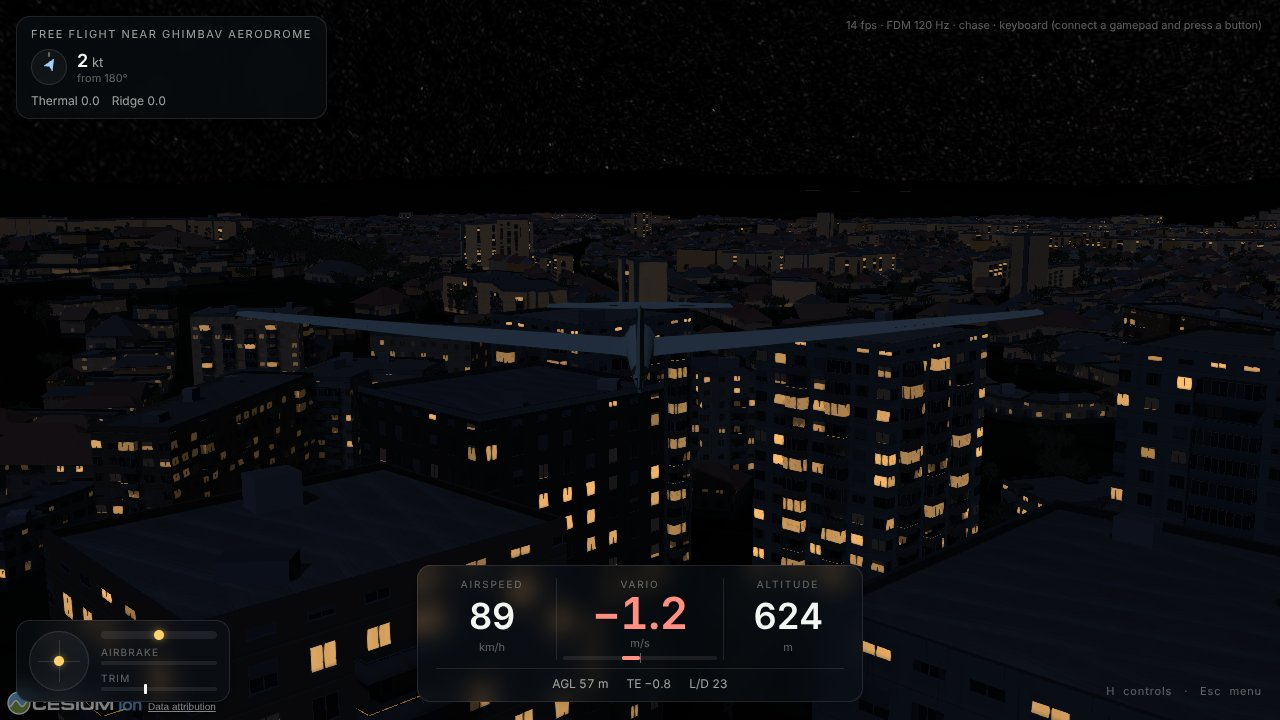
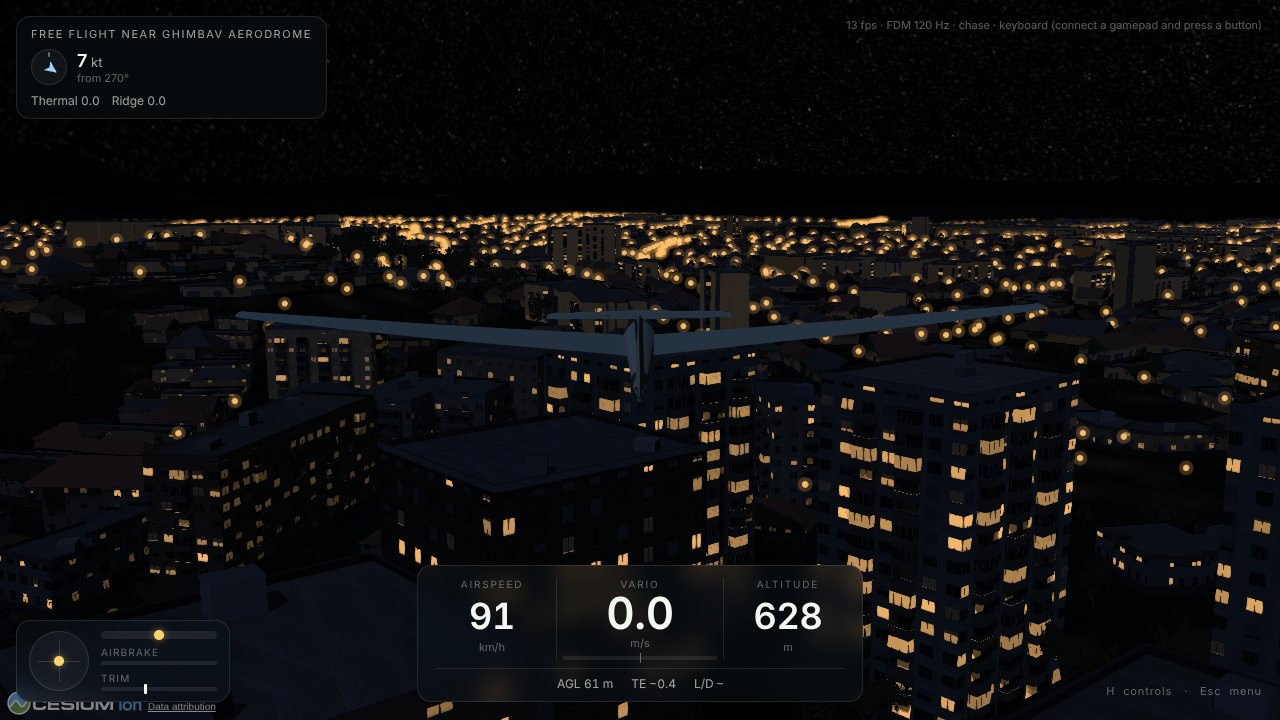
Street lights at night: lamp points along town streets and light pools on the ground
Lamps are placed every 38 m along primary-to-minor roads inside built-up land use (one
function, packages/scenery lamps.ts, for both). Detail ground tiles now carry the time of
day themselves (darkening, pools) instead of the layer's brightness.

Claude-Session: https://claude.ai/code/session_01Gkrw4JEEshtmUBEjEhXiiF

diff --git a/packages/scenery/src/lamps.ts b/packages/scenery/src/lamps.ts
@@ -1,0 +1,61 @@
+/**
+ * Street lamps from an OpenMapTiles vector tile: along streets (primary to minor roads, not
+ * in tunnels) every LAMP_SPACING_M where they run through built-up land (landuse
+ * residential, commercial, retail, industrial). One function for everything that shows
+ * them (the light pools painted on the ground, the lamp lights in the scene), so they agree.
+ * OpenStreetMap has few lamps mapped; these are placed, not surveyed.
+ */
+import type { MvtLayer } from "./mvt.ts";
+
+export const LAMP_SPACING_M = 38;
+const LAMP_ROADS = new Set(["primary", "secondary", "tertiary", "minor"]);
+const BUILT = new Set(["residential", "commercial", "retail", "industrial"]);
+
+const inRing = (ring: [number, number][], x: number, y: number) => {
+  let c = false;
+  for (let i = 0, j = ring.length - 1; i < ring.length; j = i++) {
+    const [xi, yi] = ring[i]!, [xj, yj] = ring[j]!;
+    if (yi > y !== yj > y && x < ((xj - xi) * (y - yi)) / (yj - yi) + xi) c = !c;
+  }
+  return c;
+};
+
+/** Lamp positions in the tile's own coordinates (0…extent, y down), for a tile at zoom z, row y. */
+export function streetLamps(layers: MvtLayer[], z: number, y: number): { extent: number; pts: [number, number][] } {
+  const roads = layers.find((l) => l.name === "transportation"), landuse = layers.find((l) => l.name === "landuse");
+  const extent = roads?.extent ?? 4096;
+  const pts: [number, number][] = [];
+  if (!roads || !landuse) return { extent, pts };
+  // Built-up polygons with their bounding boxes (even-odd over a feature's rings).
+  const built = landuse.features
+    .filter((f) => f.type === 3 && BUILT.has(String(f.properties["class"] ?? "")))
+    .map((f) => {
+      let x0 = Infinity, y0 = Infinity, x1 = -Infinity, y1 = -Infinity;
+      for (const r of f.geometry) for (const [a, b] of r) { x0 = Math.min(x0, a); y0 = Math.min(y0, b); x1 = Math.max(x1, a); y1 = Math.max(y1, b); }
+      return { rings: f.geometry, x0, y0, x1, y1 };
+    });
+  if (!built.length) return { extent, pts };
+  const k = landuse.extent / extent;
+  const isBuilt = (u: number, v: number) => built.some((p) => u * k >= p.x0 && u * k <= p.x1 && v * k >= p.y0 && v * k <= p.y1 && p.rings.reduce((c, r) => (inRing(r, u * k, v * k) ? !c : c), false));
+  // True metres per tile unit at the tile's latitude.
+  const lat = Math.atan(Math.sinh(Math.PI * (1 - (2 * (y + 0.5)) / 2 ** z)));
+  const unitM = (40075016.686 * Math.cos(lat)) / 2 ** z / extent;
+  for (const f of roads.features) {
+    if (f.type !== 2 || !LAMP_ROADS.has(String(f.properties["class"] ?? "")) || f.properties["brunnel"] === "tunnel") continue;
+    for (const line of f.geometry) {
+      let next = LAMP_SPACING_M / 3; // distance along the line to the next lamp [m]
+      for (let i = 0; i + 1 < line.length; i++) {
+        const [ax, ay] = line[i]!, [bx, by] = line[i + 1]!;
+        const len = Math.hypot(bx - ax, by - ay) * unitM;
+        while (next <= len) {
+          const t = next / len, u = ax + (bx - ax) * t, v = ay + (by - ay) * t;
+          // Only lamps inside the tile proper: the neighbour places those in its own area.
+          if (u >= 0 && v >= 0 && u < extent && v < extent && isBuilt(u, v)) pts.push([u, v]);
+          next += LAMP_SPACING_M;
+        }
+        next -= len;
+      }
+    }
+  }
+  return { extent, pts };
+}

diff --git a/apps/web/src/detail/detail-worker.ts b/apps/web/src/detail/detail-worker.ts
@@ -6,7 +6,7 @@
  * shadows. Visual only.
  */
 import { airfieldsAround, bearingDeg, designatorDeg } from "@webflight/environment";
-import { decodeMvt, type MvtLayer } from "@webflight/scenery";
+import { decodeMvt, streetLamps, type MvtLayer } from "@webflight/scenery";
 import { edgeAwareUpsample, synthesize, hash2, COVERS, type Cover, type GroundTextures } from "./synth.ts";
 import { addRelief, buildDetailTexture, TEXTURES, type DetailTexture, type TextureRole } from "./textures.ts";
 
@@ -14,6 +14,11 @@ declare const self: DedicatedWorkerGlobalScope;
 
 export interface DetailRequest {
   id: number;
+  /**
+   * Time of day (lighting.ts LOOK): the tile darkens itself by `ground` and, by `night`,
+   * paints the street lamps' light pools (the layer is then drawn at full brightness).
+   */
+  look?: { ground: number; night: number };
   /** 3D building shadows are drawn: don't also paint them into tiles within their reach (zoom ≥ 15). */
   realShadows?: boolean;
   x: number;
@@ -342,6 +347,7 @@ async function composeLow(q: DetailRequest): Promise<ImageBitmap> {
       if (l.name === "waterway") drawWaterways(ctx, l, f, w);
       else if (l.name === "transportation") drawRoads(ctx, l, f, w, mPerPx);
     }
+  nightLook(ctx, q, undefined, undefined);
   return flipped(cv);
 }
 
@@ -574,5 +580,38 @@ async function compose(q: DetailRequest): Promise<ImageBitmap> {
       }
     }
   }
+  nightLook(ctx, q, layers, toPx);
   return flipped(cv);
+}
+
+/** Darken the finished tile for the time of day; at night add the street lamps' pools of light. */
+function nightLook(ctx: Ctx, q: DetailRequest, layers: MvtLayer[] | undefined, toPx: ((e: number) => ToPx) | undefined): void {
+  const look = q.look;
+  if (!look || look.ground >= 0.995) return;
+  ctx.globalAlpha = 1;
+  ctx.setLineDash([]);
+  ctx.globalCompositeOperation = "multiply";
+  // Towards night the remaining light is bluish.
+  const g = look.ground, n = look.night;
+  ctx.fillStyle = `rgb(${Math.round(255 * g * (1 - 0.18 * n))}, ${Math.round(255 * g * (1 - 0.06 * n))}, ${Math.round(255 * Math.min(1, g * (1 + 0.25 * n)))})`;
+  ctx.fillRect(0, 0, SIZE, SIZE);
+  if (n > 0.3 && layers && toPx && q.z >= 14) {
+    const lamps = streetLamps(layers, 14, q.y >> (q.z - 14));
+    const f = toPx(lamps.extent);
+    const latC = (Math.atan(Math.sinh(Math.PI * (1 - (2 * (q.y + 0.5)) / 2 ** q.z))) * 180) / Math.PI;
+    const r = 15 / ((C * Math.cos((latC * Math.PI) / 180)) / 2 ** q.z / SIZE); // 15 m pools
+    ctx.globalCompositeOperation = "lighter";
+    const a = 0.34 * Math.min(1, (n - 0.3) / 0.4);
+    for (const [u, v] of lamps.pts) {
+      const [px, py] = f(u, v);
+      if (px < -r || py < -r || px > SIZE + r || py > SIZE + r) continue;
+      const grad = ctx.createRadialGradient(px, py, 0, px, py, r);
+      grad.addColorStop(0, `rgba(255, 190, 110, ${a})`);
+      grad.addColorStop(0.35, `rgba(255, 170, 90, ${a * 0.45})`);
+      grad.addColorStop(1, "rgba(255, 160, 80, 0)");
+      ctx.fillStyle = grad;
+      ctx.fillRect(px - r, py - r, 2 * r, 2 * r);
+    }
+  }
+  ctx.globalCompositeOperation = "source-over";
 }

diff --git a/apps/web/src/osm-layer.ts b/apps/web/src/osm-layer.ts
@@ -17,6 +17,9 @@ import {
   GeometryAttributes,
   GeometryInstance,
   Primitive,
+  Color,
+  NearFarScalar,
+  PointPrimitiveCollection,
   PrimitiveType,
   Resource,
   TextureMagnificationFilter,
@@ -29,7 +32,7 @@ import * as Cesium from "cesium";
 import { lonLatToTile, tileToLonLat } from "@webflight/environment";
 import type { Mesh } from "@webflight/scenery";
 import type { OsmRequest, OsmResult } from "./osm-worker.ts";
-import { lookGlsl } from "./lighting.ts";
+import { LOOK, lookGlsl } from "./lighting.ts";
 import { openFreeMapTiles } from "./osm-source.ts";
 import { loadTreeAtlas, treeImpostors, type TreeAtlas } from "./tree-impostors.ts";
 
@@ -402,6 +405,7 @@ export class OsmLayer {
   private atlas: TreeAtlas | undefined;
   private textures: Textures | undefined;
   private lastKey = "";
+  private readonly lamps = new Map<string, PointPrimitiveCollection>();
 
   private constructor(
     private readonly viewer: Viewer,
@@ -414,6 +418,16 @@ export class OsmLayer {
       const p = e.data.trees ? (this.atlas ? treeImpostors(this.atlas, e.data.origin, e.data.trees) : undefined) : this.textures ? primitive(e.data, this.o.shadows, this.textures) : undefined;
       if (p) this.viewer.scene.primitives.add(p);
       this.tiles.set(key, p ?? null);
+      // Street lamps at night: warm points, small in the distance.
+      if (e.data.lamps?.length && LOOK.day < 0.6) {
+        const pts = new PointPrimitiveCollection();
+        const k = 1 - LOOK.day / 0.6, col = new Color(1, 0.78, 0.46, 0.95 * k);
+        const size = new NearFarScalar(40, 1.6, 6000, 0.3);
+        for (let i = 0; i < e.data.lamps.length; i += 3)
+          pts.add({ position: Cartesian3.fromDegrees(e.data.lamps[i]!, e.data.lamps[i + 1]!, e.data.lamps[i + 2]!), pixelSize: 4, color: col, scaleByDistance: size });
+        this.viewer.scene.primitives.add(pts);
+        this.lamps.set(key, pts);
+      }
     };
   }
 
@@ -481,6 +495,9 @@ export class OsmLayer {
       if (!far) continue;
       if (p) this.viewer.scene.primitives.remove(p);
       this.tiles.delete(k);
+      const l = this.lamps.get(k);
+      if (l) this.viewer.scene.primitives.remove(l);
+      this.lamps.delete(k);
     }
   }
 }

diff --git a/packages/scenery/src/osm.ts b/packages/scenery/src/osm.ts
@@ -10,6 +10,7 @@
  * tile's buildings or trees as one draw call and this code stays testable without WebGL.
  */
 import earcut from "earcut";
+import { streetLamps } from "./lamps.ts";
 import { decodeMvt, type MvtLayer } from "./mvt.ts";
 
 export type LonLat = [number, number];
@@ -67,13 +68,18 @@ export interface OsmTile {
   greens: OsmPolygon[];
   /** Road and rail centrelines with half-widths [m], [lon, lat] points. */
   roads: { pts: LonLat[]; halfM: number }[];
+  /** Street lamps (see lamps.ts). */
+  lamps: LonLat[];
 }
 
 const ROAD_HALF_M: Record<string, number> = { motorway: 12, trunk: 9, primary: 7, secondary: 5.5, tertiary: 4.5, minor: 3.5, service: 2.5, track: 2, rail: 3, transit: 3 };
 
 export function osmFromTile(data: Uint8Array, z: number, x: number, y: number): OsmTile {
-  const t: OsmTile = { buildings: [], forests: [], greens: [], roads: [] };
-  for (const layer of decodeMvt(data)) {
+  const t: OsmTile = { buildings: [], forests: [], greens: [], roads: [], lamps: [] };
+  const layers = decodeMvt(data);
+  const lamps = streetLamps(layers, z, y);
+  t.lamps = lamps.pts.map(([u, v]) => tileToLonLat(x + u / lamps.extent, y + v / lamps.extent, z));
+  for (const layer of layers) {
     if (layer.name === "building") t.buildings = polygonsFromLayer(layer, z, x, y, () => true, true);
     else if (layer.name === "landcover") {
       t.forests = polygonsFromLayer(layer, z, x, y, (p) => p["class"] === "wood");
@@ -93,7 +99,7 @@ export function osmFromTile(data: Uint8Array, z: number, x: number, y: number): 
 
 export async function fetchOsm(url: string, z: number, x: number, y: number): Promise<OsmTile> {
   const r = await fetch(url.replace("{z}", String(z)).replace("{x}", String(x)).replace("{y}", String(y)));
-  if (!r.ok) return { buildings: [], forests: [], greens: [], roads: [] };
+  if (!r.ok) return { buildings: [], forests: [], greens: [], roads: [], lamps: [] };
   return osmFromTile(new Uint8Array(await r.arrayBuffer()), z, x, y);
 }
 

diff --git a/apps/web/src/osm-worker.ts b/apps/web/src/osm-worker.ts
@@ -17,17 +17,21 @@ export interface OsmResult {
   origin: [number, number, number];
   /** Buildings: a mesh. */
   mesh?: Mesh;
+  /** With buildings: street lamp heads, lon/lat/height triples. */
+  lamps?: Float64Array;
   /** Trees: instances, 5 floats each (see treeInstances). */
   trees?: Float32Array;
 }
 
+/** Lamp heads above the street [m]. */
+const LAMP_HEIGHT_M = 7;
 const terrain = new TerrariumTerrain({ zoom: 13, maxTiles: 256 });
 const tiles = new Map<string, Promise<OsmTile>>();
 const tile = (url: string, x: number, y: number): Promise<OsmTile> => {
   const k = `${x}/${y}`;
   let t = tiles.get(k);
   if (!t) {
-    t = fetchOsm(url, 14, x, y).catch(() => ({ buildings: [], forests: [], greens: [], roads: [] }));
+    t = fetchOsm(url, 14, x, y).catch(() => ({ buildings: [], forests: [], greens: [], roads: [], lamps: [] }));
     tiles.set(k, t);
     // Keep the last few dozen decoded tiles: trees ask for the same parent many times.
     if (tiles.size > 40) tiles.delete(tiles.keys().next().value!);
@@ -53,7 +57,9 @@ async function build(req: OsmRequest): Promise<void> {
   const frame = new LocalFrame(clon, clat, ground(clon, clat));
   if (req.kind === "buildings") {
     const mesh = buildingMesh(osm.buildings, frame, ground);
-    const out: OsmResult = { id: req.id, origin: [clon, clat, frame.heightM], mesh };
+    const lamps = new Float64Array(osm.lamps.length * 3);
+    osm.lamps.forEach(([lon, lat], i) => lamps.set([lon, lat, ground(lon, lat) + LAMP_HEIGHT_M], i * 3));
+    const out: OsmResult = { id: req.id, origin: [clon, clat, frame.heightM], mesh, lamps };
     (self as unknown as Worker).postMessage(out, [mesh.positions.buffer, mesh.normals.buffer, mesh.colors.buffer, mesh.indices.buffer, mesh.uvm.buffer]);
   } else {
     const [e0, n1] = frame.en(lon0, lat0), [e1, n0] = frame.en(lon1, lat1);

diff --git a/apps/web/src/imagery.ts b/apps/web/src/imagery.ts
@@ -11,6 +11,7 @@ import { ArcGisMapServerImageryProvider, Cartesian2, Cartographic, Credit, Disca
 import { sunFrom, type Sun } from "./paint/landcover.ts";
 import type { PaintRequest } from "./paint/paint-worker.ts";
 import type { DetailRequest } from "./detail/detail-worker.ts";
+import { LOOK } from "./lighting.ts";
 import { openFreeMapTiles } from "./osm-source.ts";
 
 export type ImageryMode = "photo" | "painted" | "grid" | "osm";
@@ -171,6 +172,8 @@ export class DetailImageryProvider {
   private nextId = 0;
   private rr = 0;
   private empty: ImageBitmap | undefined;
+  /** The tiles carry the time of day themselves (darkening, lamp light): see lighting.ts. */
+  readonly selfLit = true;
   /** Composed tiles, least recently used first (~260 kB each). */
   private readonly cache = new Map<string, ImageBitmap>();
 
@@ -234,7 +237,7 @@ export class DetailImageryProvider {
     return new Promise((resolve, reject) => {
       this.pending.set(id, { key, resolve, reject });
       const dbg = new URLSearchParams(location.search);
-      w.postMessage({ id, x, y, z: level, s2Url: S2CLOUDLESS, osmUrl: this.osmUrl, texUrl: new URL(`${import.meta.env.BASE_URL}textures/`, location.href).href, sun: this.sun, realShadows: this.realShadows, synth: dbg.get("synth") !== "0", snap: dbg.get("snap") !== "0" } satisfies DetailRequest);
+      w.postMessage({ id, x, y, z: level, s2Url: S2CLOUDLESS, osmUrl: this.osmUrl, texUrl: new URL(`${import.meta.env.BASE_URL}textures/`, location.href).href, sun: this.sun, realShadows: this.realShadows, look: { ground: LOOK.ground, night: 1 - LOOK.day }, synth: dbg.get("synth") !== "0", snap: dbg.get("snap") !== "0" } satisfies DetailRequest);
     });
   }
 }

diff --git a/apps/web/src/detail/preview.ts b/apps/web/src/detail/preview.ts
@@ -51,5 +51,5 @@ for (let j = 0; j < n; j++)
           ctx.drawImage(b, (x - (x >> d) * s) * src, (y - (y >> d) * s) * src, src, src, 0, 0, 256, 256);
           if (++done === n * n) document.title = "done";
         });
-    } else w.postMessage({ id, x, y, z, s2Url: S2, osmUrl, texUrl: new URL(`${import.meta.env.BASE_URL}textures/`, location.href).href, sun: { azimuthDeg: 220, elevationDeg: 45 } } satisfies DetailRequest);
+    } else w.postMessage({ id, x, y, z, s2Url: S2, osmUrl, texUrl: new URL(`${import.meta.env.BASE_URL}textures/`, location.href).href, sun: { azimuthDeg: 220, elevationDeg: 45 }, ...(p.get("night") ? { look: { ground: 0.16, night: 1 } } : {}) } satisfies DetailRequest);
   }

diff --git a/apps/web/src/lighting.ts b/apps/web/src/lighting.ts
@@ -73,6 +73,7 @@ export function applyLighting(viewer: Viewer, sun: { azimuthDeg: number; elevati
   }
   // Ground imagery (every layer, also those added later).
   const dim = (l: ImageryLayer) => {
+    if ((l.imageryProvider as unknown as { selfLit?: boolean }).selfLit) return; // detail tiles darken themselves
     l.brightness = LOOK.ground;
     l.saturation = 0.45 + 0.55 * LOOK.day;
   };

diff --git a/packages/scenery/src/index.ts b/packages/scenery/src/index.ts
@@ -6,3 +6,4 @@ export { BLOCK_FLOOR_M, BLOCK_WALL_M, buildingMesh, MAT, parseColour, windowPitc
 export type { GroundFn, LonLat, Mesh, OsmPolygon, OsmTile, TreeOptions } from "./osm.ts";
 export { fetchRunwayLines, mergeRunwayPieces, runwayPiecesFromTile } from "./runways.ts";
 export type { RunwayLine } from "./runways.ts";
+export { LAMP_SPACING_M, streetLamps } from "./lamps.ts";
